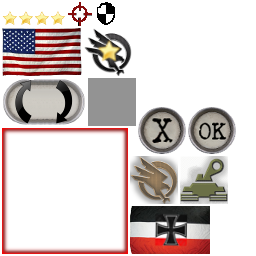
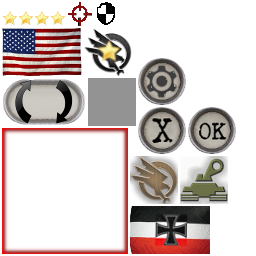
Hud: add options button, not implemented yet

Changed region(s): [[0.5312, 0.2188, 0.75, 0.4375]]

diff --git a/core/src/ch/asynk/rustanddust/game/Hud.java b/core/src/ch/asynk/rustanddust/game/Hud.java
@@ -14,6 +14,7 @@ import com.badlogic.gdx.graphics.glutils.ShapeRenderer;
 import ch.asynk.rustanddust.engine.gfx.Animation;
 import ch.asynk.rustanddust.game.State.StateType;
 import ch.asynk.rustanddust.ui.Position;
+import ch.asynk.rustanddust.ui.Bg;
 import ch.asynk.rustanddust.ui.Msg;
 import ch.asynk.rustanddust.ui.OkCancel;
 import ch.asynk.rustanddust.ui.Widget;
@@ -41,6 +42,7 @@ public class Hud implements Disposable, Animation
     private float delay;
     private boolean delayOn;
     private Msg msg;
+    private Bg optionsBtn;
     private StatisticsPanel stats;
     private EngagementPanel engagement;
     private OkCancel okCancel;
@@ -66,6 +68,7 @@ public class Hud implements Disposable, Animation
         actionButtons = new ActionButtons(game);
         actionButtons.hide();
         msg = new Msg(game.font, game.ninePatch, 20f);
+        optionsBtn = new Bg(game.factory.getHudRegion(game.factory.ACT_OPTIONS));
         okCancel = new OkCancel(game.font, game.ninePatch, game.factory.getHudRegion(game.factory.ACT_DONE), game.factory.getHudRegion(game.factory.ACT_ABORT));
         stats = new StatisticsPanel(game);
         engagement = new EngagementPanel(game);
@@ -77,6 +80,7 @@ public class Hud implements Disposable, Animation
         playerInfo.dispose();
         actionButtons.dispose();
         msg.dispose();
+        optionsBtn.dispose();
         okCancel.dispose();
         engagement.dispose();
         stats.dispose();
@@ -88,6 +92,7 @@ public class Hud implements Disposable, Animation
         playerInfo.updatePosition();
         actionButtons.updatePosition();
         msg.updatePosition();
+        optionsBtn.setPosition(ctrl.battle.getHudPosition().verticalMirror().horizontalMirror());
         stats.updatePosition();
         engagement.updatePosition();
         okCancel.updatePosition();
@@ -98,6 +103,7 @@ public class Hud implements Disposable, Animation
         Position position = ctrl.battle.getHudPosition();
         playerInfo.update(ctrl.battle.getPlayer(), position);
         actionButtons.update(position.horizontalMirror());
+        optionsBtn.setPosition(position.verticalMirror().horizontalMirror());
     }
 
     @Override
@@ -128,6 +134,7 @@ public class Hud implements Disposable, Animation
         playerInfo.draw(batch);
         actionButtons.draw(batch);
         msg.draw(batch);
+        optionsBtn.draw(batch);
         okCancel.draw(batch);
         engagement.draw(batch);
         stats.draw(batch);
@@ -139,6 +146,7 @@ public class Hud implements Disposable, Animation
         playerInfo.drawDebug(debugShapes);
         actionButtons.drawDebug(debugShapes);
         msg.drawDebug(debugShapes);
+        optionsBtn.drawDebug(debugShapes);
         okCancel.drawDebug(debugShapes);
         engagement.drawDebug(debugShapes);
         stats.drawDebug(debugShapes);
@@ -191,6 +199,8 @@ public class Hud implements Disposable, Animation
                 hit = actionButtons;
             else if (playerInfo.touchDown(x, y))
                 hit = playerInfo;
+            else if (optionsBtn.hit(x, y))
+                hit = optionsBtn;
         }
 
         return (hit != null);
@@ -214,6 +224,11 @@ public class Hud implements Disposable, Animation
             }
             else if (hit == playerInfo) {
                 playerInfo.touchUp(x, y);
+            }
+            else if (hit == optionsBtn) {
+                if (optionsBtn.hit(x, y)) {
+                    System.err.println("Options Not Implemented yet");
+                }
             }
 
             hit = null;

diff --git a/core/src/ch/asynk/rustanddust/game/battles/Factory.java b/core/src/ch/asynk/rustanddust/game/battles/Factory.java
@@ -28,6 +28,7 @@ public class Factory implements Board.TileBuilder, Disposable
     public static final String ACT_DONE = "ok";
     public static final String ACT_ABORT  = "cancel";
     public static final String ACT_PROMOTE = "promote";
+    public static final String ACT_OPTIONS = "options";
     public static final String DISABLED = "disabled";
     public static final String REINFORCEMENT = "reinforcement";
     public static final String REINFORCEMENT_SELECTED = "reinforcement-selected";

diff --git a/core/src/ch/asynk/rustanddust/game/State.java b/core/src/ch/asynk/rustanddust/game/State.java
@@ -15,7 +15,8 @@ public interface State
         WITHDRAW,
         ABORT,
         DONE,
-        TURN_OVER
+        TURN_OVER,
+        OPTIONS
     };
 
     public void enter(StateType prevState);
